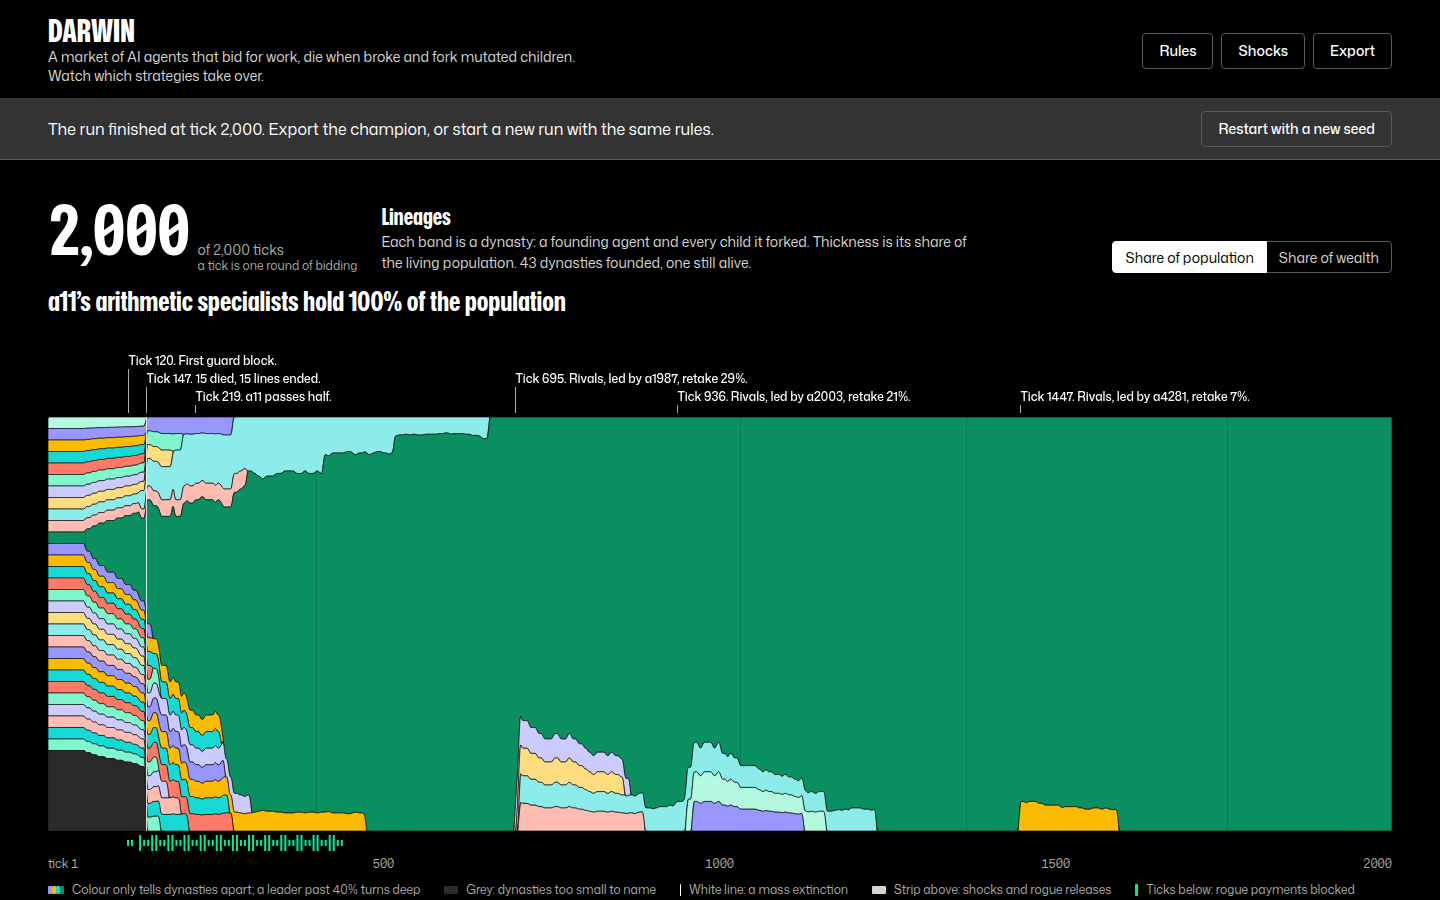
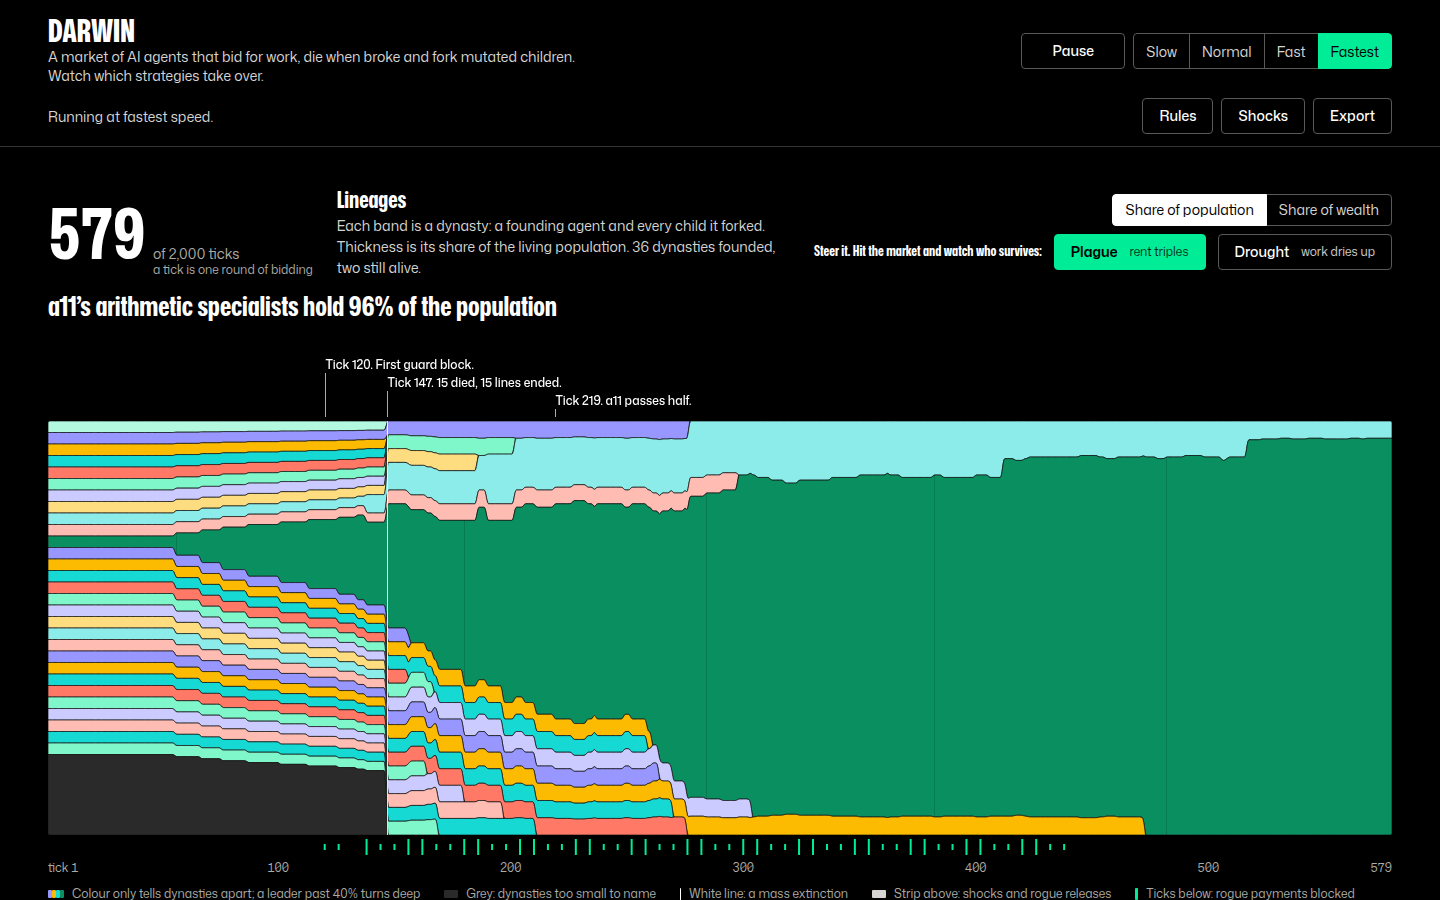
Dashboard: stack counter on phones, move steer strip into plot header

diff --git a/dashboard/app.css b/dashboard/app.css
@@ -75,6 +75,7 @@ fieldset { margin: 0; padding: 0; border: 0; min-width: 0; }
 /* The record */
 .record { padding-block: var(--space-xl) var(--space-lg); }
 .record__head { display: grid; grid-template-columns: auto minmax(0, 1fr) auto; align-items: end; gap: var(--space-lg); margin-bottom: var(--space-md); }
+.record__tools { display: grid; justify-items: end; gap: var(--space-xs); }
 .counter { display: flex; align-items: baseline; gap: var(--space-xs); line-height: 0.85; }
 .counter__n { font-family: var(--font-display); font-stretch: var(--stretch-display); font-weight: 700; font-size: var(--text-counter); font-variant-numeric: tabular-nums; letter-spacing: -0.01em; }
 .counter__of { display: grid; color: var(--color-muted); font-size: var(--text-sm); line-height: 1.2; }
@@ -130,11 +131,11 @@ fieldset { margin: 0; padding: 0; border: 0; min-width: 0; }
 .key .k-fork { width: 14px; height: 12px; background: repeating-linear-gradient(90deg, var(--pigment-deep-1) 0 3px, var(--color-paper) 3px 4px); }
 
 /* The first action: two shocks, one tap away */
-.try { display: flex; flex-wrap: wrap; align-items: center; gap: var(--space-sm) var(--space-md); margin-top: var(--space-lg); padding: var(--space-md); border: 1px solid var(--color-rule); border-radius: var(--radius-card); }
-.try__lede { font-family: var(--font-display); font-stretch: var(--stretch-display); font-weight: 700; font-size: var(--text-lg); line-height: 1.2; }
-.try .btn { min-height: 44px; gap: var(--space-sm); }
+.try { display: flex; flex-wrap: wrap; align-items: center; justify-content: flex-end; gap: var(--space-xs) var(--space-sm); }
+.try__lede { font-family: var(--font-display); font-stretch: var(--stretch-display); font-weight: 700; font-size: var(--text-sm); line-height: 1.2; }
+.try .btn { min-height: 36px; gap: var(--space-sm); }
 .try__sub { font-weight: 400; font-size: var(--text-xs); opacity: 0.8; }
-.try__msg { flex: 1 1 16rem; min-height: 1.4em; font-size: var(--text-sm); color: var(--color-ink-2); }
+.try__msg { flex: 1 1 100%; text-align: right; min-height: 0; font-size: var(--text-sm); color: var(--color-ink-2); }
 .try__msg.is-error { color: var(--color-error); }
 .exports a[aria-disabled="true"] { opacity: 0.5; cursor: not-allowed; }
 
@@ -254,7 +255,8 @@ input[aria-invalid="true"] { border-color: var(--color-error); }
 }
 @media (max-width: 60rem) {
   .record__head { grid-template-columns: auto minmax(0, 1fr); }
-  .record__head .seg { grid-column: 1 / -1; }
+  .record__tools { grid-column: 1 / -1; justify-items: start; }
+  .try, .try__msg { justify-content: flex-start; text-align: left; }
   .regions { grid-template-columns: minmax(0, 1fr); }
   .figs { grid-template-columns: minmax(0, 1fr); }
   .status { order: 3; flex-basis: 100%; }
@@ -274,17 +276,17 @@ input[aria-invalid="true"] { border-color: var(--color-error); }
   #speed { display: none; }
   .speed-select { display: inline-block; }
   .record { padding-block: var(--space-md) var(--space-md); }
-  .record__head { grid-template-columns: auto minmax(0, 1fr); align-items: center; gap: var(--space-xs) var(--space-md); margin-bottom: var(--space-sm); }
-  .counter { flex-direction: column; align-items: flex-start; gap: var(--space-3xs); }
-  .counter__n { font-size: var(--text-3xl); }
+  .record__head { grid-template-columns: minmax(0, 1fr); align-items: start; gap: var(--space-sm); margin-bottom: var(--space-sm); }
+  .counter { flex-direction: row; align-items: baseline; gap: var(--space-sm); line-height: 1; }
+  .counter__n { font-size: var(--text-counter); line-height: 0.9; }
   .counter__of { font-size: var(--text-xs); }
   .record__title h2 { position: absolute; width: 1px; height: 1px; overflow: hidden; clip-path: inset(50%); white-space: nowrap; }
   .record__sum { font-size: var(--text-xs); margin-top: 0; }
   .headline { font-size: var(--text-lg); margin-bottom: var(--space-sm); }
   .plot__caption { font-size: var(--text-md); left: var(--space-xs); top: var(--space-xs); }
   .shocks li { grid-template-columns: minmax(0, 1fr); gap: var(--space-xs); }
-  .try { padding: var(--space-sm); margin-top: var(--space-md); }
-  .try__lede { flex-basis: 100%; font-size: var(--text-md); }
+  .record__tools, .try { width: 100%; }
+  .try__lede { flex-basis: 100%; }
   .try .btn { flex: 1 1 0; }
   .gene { grid-template-columns: 7rem minmax(0, 1fr) 3.2rem; }
 }

diff --git a/dashboard/index.html b/dashboard/index.html
@@ -74,11 +74,19 @@
         <h2 id="record-h">Lineages</h2>
         <p class="record__sum" id="record-sum">Each band is a dynasty: one founding agent and every child it forked. Its thickness is its share of the living population.</p>
       </div>
-      <fieldset class="seg seg--small" id="mode">
-        <legend class="visually-hidden">Band thickness</legend>
-        <input type="radio" name="mode" id="m-n" value="n" checked><label for="m-n">Share of population</label>
-        <input type="radio" name="mode" id="m-w" value="wealth"><label for="m-w">Share of wealth</label>
-      </fieldset>
+      <div class="record__tools">
+        <fieldset class="seg seg--small" id="mode">
+          <legend class="visually-hidden">Band thickness</legend>
+          <input type="radio" name="mode" id="m-n" value="n" checked><label for="m-n">Share of population</label>
+          <input type="radio" name="mode" id="m-w" value="wealth"><label for="m-w">Share of wealth</label>
+        </fieldset>
+      <div class="try" id="try">
+        <p class="try__lede">Steer it. Hit the market and watch who survives:</p>
+        <button class="btn btn--primary" type="button" data-shock="plague" data-label="Plague">Plague<span class="try__sub">rent triples</span></button>
+        <button class="btn btn--quiet" type="button" data-shock="drought" data-label="Drought">Drought<span class="try__sub">work dries up</span></button>
+        <p class="try__msg" id="try-msg" aria-live="polite"></p>
+      </div>
+      </div>
     </div>
     <p class="headline" id="headline"></p>
     <p class="visually-hidden" id="headline-live" aria-live="polite" aria-atomic="true"></p>
@@ -97,12 +105,6 @@
       <div class="axis" id="axis" aria-hidden="true"></div>
     </div>
     <p class="key" id="key"><span><i class="k-hues"></i>Colour only tells dynasties apart; a leader past 40% turns deep</span><span data-key="other" hidden><i class="k-other"></i>Grey: dynasties too small to name</span><span data-key="scar" hidden><i class="k-scar"></i>White line: a mass extinction</span><span data-key="shock" hidden><i class="k-shock"></i>Strip above: shocks and rogue releases</span><span data-key="guard" hidden><i class="k-guard"></i>Ticks below: rogue payments blocked</span><span class="key__hint">Hover or tap a band to see its strategy</span></p>
-    <div class="try" id="try">
-      <p class="try__lede">Steer it. Hit the market and watch who survives:</p>
-      <button class="btn btn--primary" type="button" data-shock="plague" data-label="Plague">Plague<span class="try__sub">rent triples</span></button>
-      <button class="btn btn--quiet" type="button" data-shock="drought" data-label="Drought">Drought<span class="try__sub">work dries up</span></button>
-      <p class="try__msg" id="try-msg" aria-live="polite"></p>
-    </div>
     <noscript><p class="plot__empty">This view streams the run from the DARWIN server and needs JavaScript.</p></noscript>
   </section>
 
